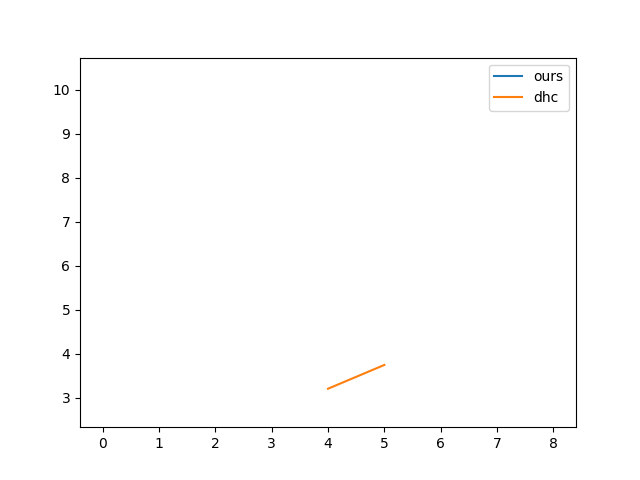
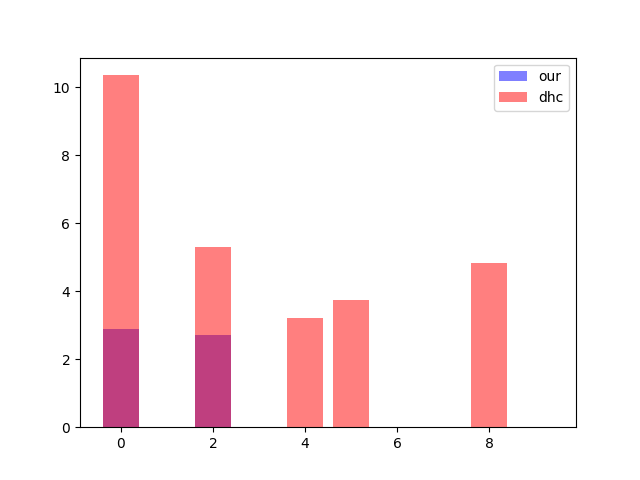
better plot

diff --git a/multi_optim/comparative_evaluation.py b/multi_optim/comparative_evaluation.py
@@ -1,4 +1,5 @@
 import logging
+from cProfile import label
 from mmap import mmap
 from platform import node
 from random import Random
@@ -252,12 +253,12 @@ if __name__ == '__main__':
         logger.info(f"{total_lenght_our=}")
         logger.info(f"{total_lenght_dhc=}")
 
-        lens_our[i_e] = total_lenght_our
-        lens_dhc[i_e] = total_lenght_dhc
+        lens_our[i_e] = total_lenght_our if total_lenght_our is not None else 0.0
+        lens_dhc[i_e] = total_lenght_dhc if total_lenght_dhc is not None else 0.0
 
     # plot
     plt.clf()
-    plt.plot(lens_our, label='ours')
-    plt.plot(lens_dhc, label='dhc')
+    plt.bar(range(n_eval), lens_our, color='b', alpha=.5, label='our')
+    plt.bar(range(n_eval), lens_dhc, color='r', alpha=.5, label='dhc')
     plt.legend()
     plt.savefig(f"multi_optim/results/{results_name}_lens.png")
